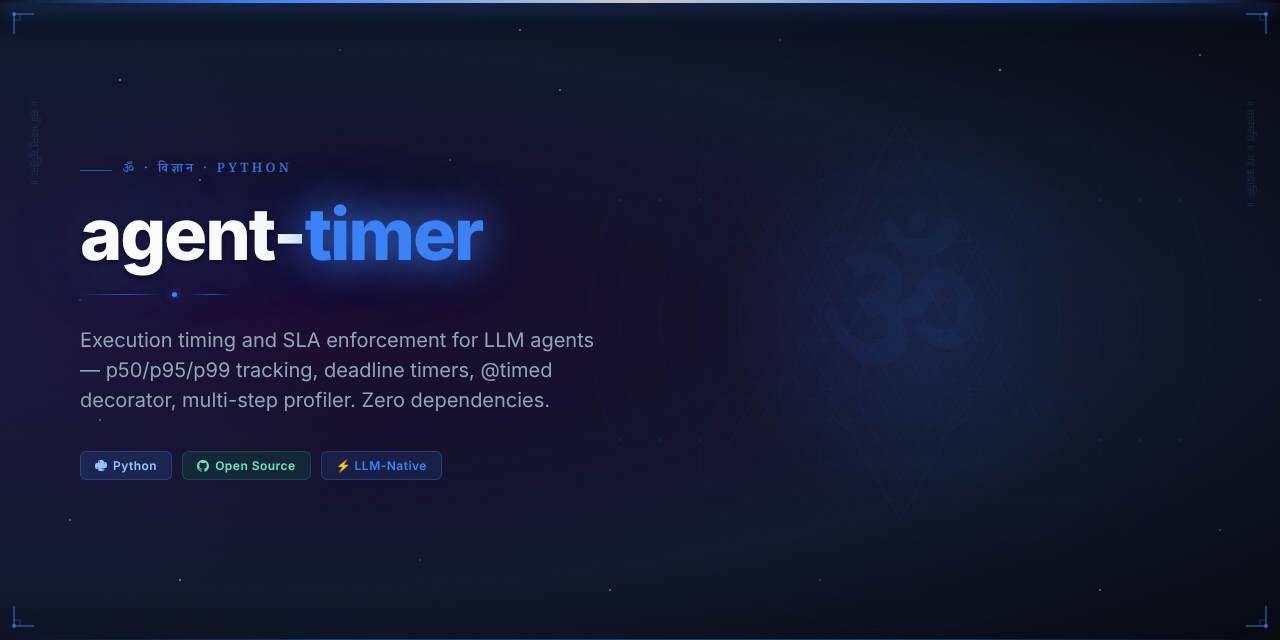
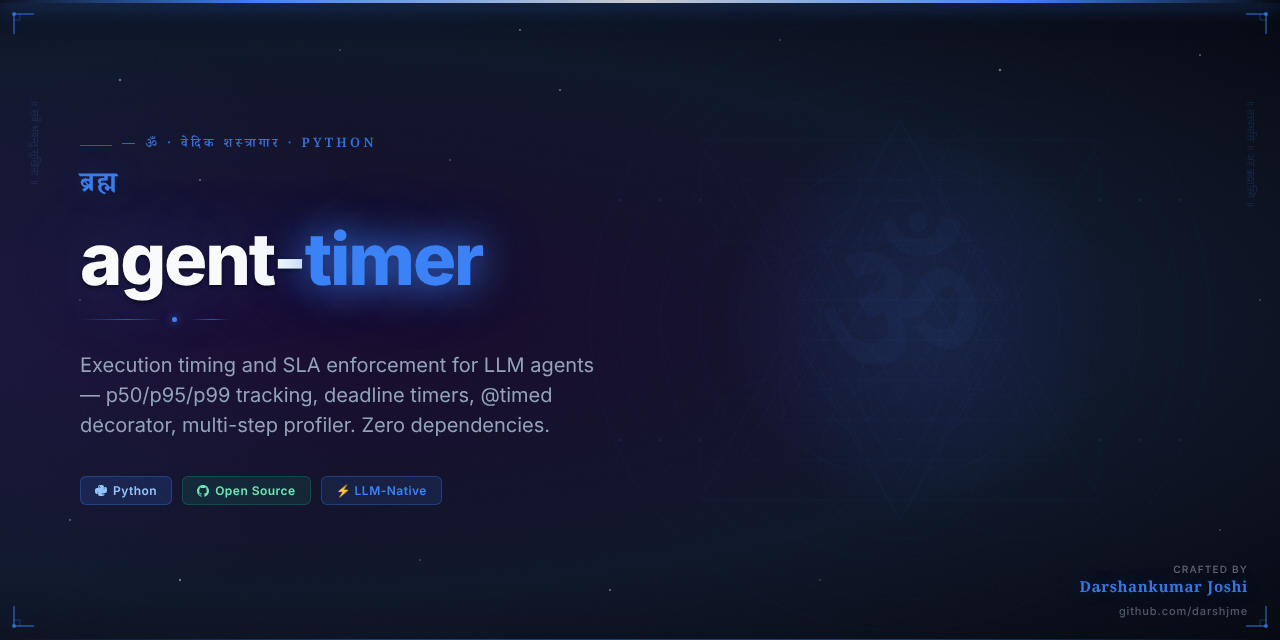
feat: add Vedic Arsenal hero image and updated README
Part of darshjme/arsenal — 100 production-grade Python libraries for LLM agents.
Vedic branding: ancient philosophy meets modern AI engineering.

diff --git a/README.md b/README.md
@@ -1,10 +1,12 @@
 <div align="center">
 
-<img src="assets/agent-timer-hero.png" alt="agent-timer — Vedic Arsenal" width="100%" />
+<img src="assets/agent-timer-hero.png" alt="agent-timer — Vedic Arsenal by Darshankumar Joshi" width="100%" />
 
 # 🌊 agent-timer
 
-### *ब्रह्म* — Brahma — the universal intelligence
+<h3><em>ब्रह्म</em></h3>
+
+> *Brahma — the universal intelligence*
 
 **Execution timing and SLA enforcement for LLM agents — p50/p95/p99 tracking, deadline timers, @timed decorator, multi-step profiler. Zero dependencies.**
 
@@ -39,6 +41,19 @@ Or clone directly:
 git clone https://github.com/darshjme/agent-timer.git
 cd agent-timer
 pip install -e .
+```
+
+## How It Works
+
+```mermaid
+flowchart LR
+    A[Input] --> B[agent-timer]
+    B --> C{Process}
+    C -- Success --> D[Output]
+    C -- Error --> E[Handle / Retry]
+    E --> B
+    style B fill:#6b21a8,color:#fff
+    note["Timer — Zero Dependencies"]
 ```
 
 ## Quick Start
@@ -90,7 +105,7 @@ MIT — use freely, build freely.
 
 <div align="center">
 
-**Built with 🌊 by [Darshankumar Joshi](https://github.com/darshjme)**
+**Built with 🌊 by [Darshankumar Joshi](https://github.com/darshjme)** · [@thedarshanjoshi](https://twitter.com/thedarshanjoshi)
 
 *"कर्मण्येवाधिकारस्ते मा फलेषु कदाचन"*
 *Your right is to action alone, never to the fruits thereof.*
